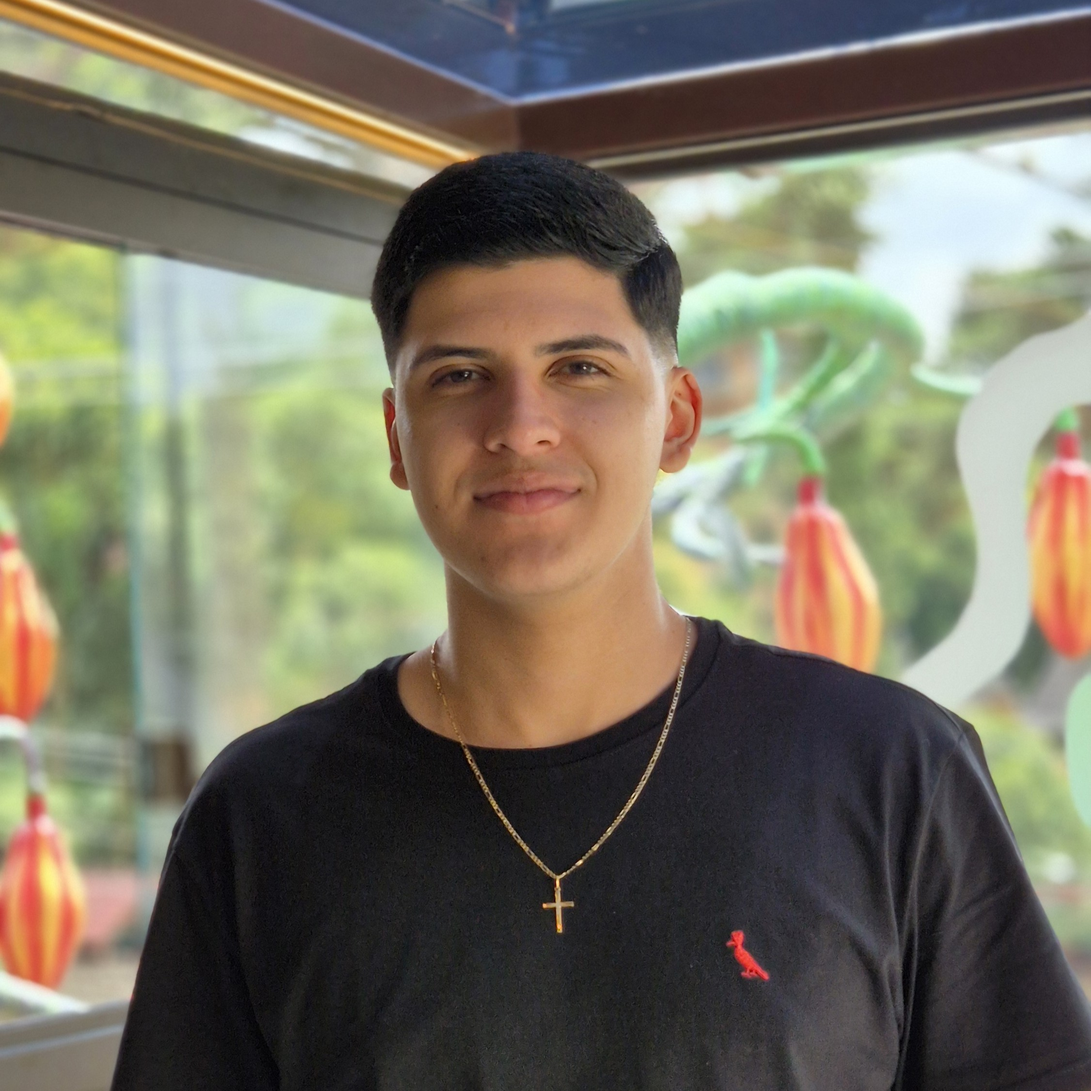
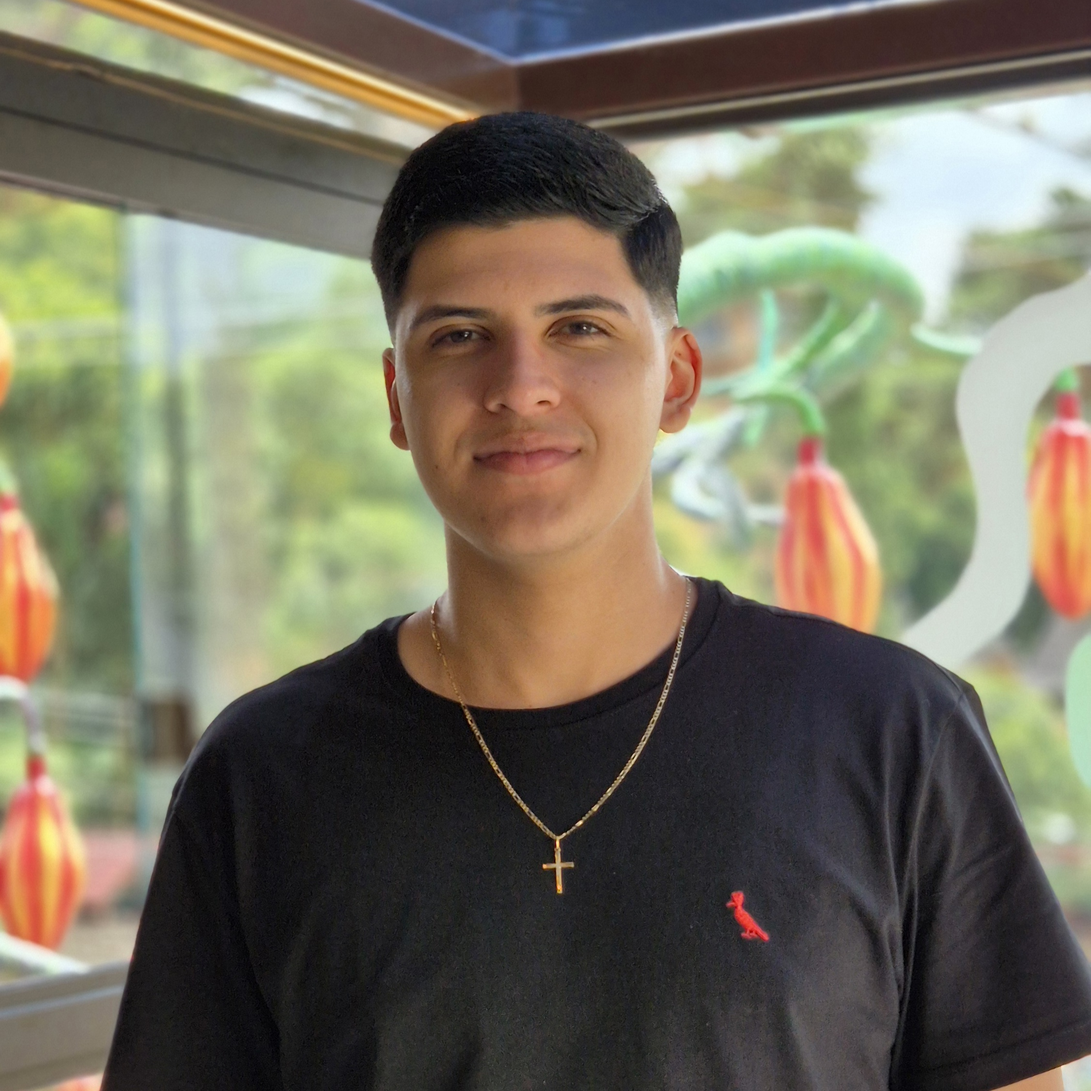
Redes sociais e botão para download cv

diff --git a/portifolio/src/app/_components/Inicio.tsx b/portifolio/src/app/_components/Inicio.tsx
@@ -1,27 +1,49 @@
 import Image from 'next/image';
 import { useTranslations } from 'next-intl';
 import { bebasNeue } from '../[locale]/fonts';
+import { Button } from '@/components/ui/button';
+import { Download } from 'lucide-react';
+import { FaLinkedinIn, FaGithub } from "react-icons/fa";
+import { BotaoRedeSocial } from './BotaoRedeSocial';
+import { GITHUB_URL, LINKEDIN_URL } from '@/lib/constants';
 
 export default function Inicio() {
     const t = useTranslations('SobreMim');
     return (
-        <div className="flex flex-col md:flex-row w-full items-center justify-between px-6 md:px-24 py-10 gap-8">
+        <div className="flex flex-col md:flex-row w-full items-center justify-between px-10 md:px-24 py-10 gap-10">
             
             {/* Imagem primeiro no mobile */}
             <div className="w-full md:w-1/2 flex justify-center items-center order-1 md:order-2">
                 <Image 
                     src="/Eu.jpg"
                     alt="Minha foto de perfil"
-                    width={600}
-                    height={700}
+                    width={562}
+                    height={562}
                     className="rounded-3xl"
                 />
             </div>
 
             {/* Texto depois no mobile */}
-            <div className="text-wrap w-full md:w-1/2 text-center md:text-left order-2 md:order-1">
-                <h1 className={`text-4xl md:text-6xl mb-6 ${bebasNeue.className}`}>{t("apresentacao")}</h1>
-                <p className="break-words max-w-full text-[var(--cinza-claro)]">{t("descricao")}</p>
+            <div className="flex flex-col gap-10 text-wrap w-full md:w-1/2 text-center md:text-left order-2 md:order-1">
+                <div>
+                    <h1 className={`text-4xl md:text-6xl mb-6 ${bebasNeue.className}`}>{t("apresentacao")}</h1>
+                    <p className="break-words max-w-full text-[var(--cinza-claro)]">{t("descricao")}</p>
+                </div>
+                
+                <div className="flex gap-3 items-center">
+                    <Button className="bg-[var(--primaria)] text-black rounded-full flex items-center gap-2 hover:bg-[var(--primaria-hover)] w-44 cursor-pointer">
+                        DOWNLOAD CV
+                        <Download />
+                    </Button>
+
+                    <BotaoRedeSocial link={LINKEDIN_URL} rotulo="Linkedin">
+                        <FaLinkedinIn size={20}/>
+                    </BotaoRedeSocial>
+
+                    <BotaoRedeSocial link={GITHUB_URL} rotulo="GitHub">
+                        <FaGithub size={20}/>
+                    </BotaoRedeSocial>
+                </div>
             </div>
         </div>
     );

diff --git a/portifolio/src/app/[locale]/layout.tsx b/portifolio/src/app/[locale]/layout.tsx
@@ -3,6 +3,7 @@ import { Geist, Geist_Mono, Bebas_Neue } from "next/font/google";
 import { NextIntlClientProvider, hasLocale } from 'next-intl';
 import { notFound } from 'next/navigation';
 import { routing } from '@/i18n/routing';
+import { inter } from "./fonts";
 import "./globals.css";
 
 const geistSans = Geist({
@@ -35,7 +36,7 @@ export default async function RootLayout({
   return (
     <html lang={locale}>
       <body
-        className={`${geistSans.variable} ${geistMono.variable} antialiased`}
+        className={`${inter.className} antialiased`}
       >
         <NextIntlClientProvider>
           {children}

diff --git a/portifolio/src/app/_components/BotaoRedeSocial.tsx b/portifolio/src/app/_components/BotaoRedeSocial.tsx
@@ -1,0 +1,21 @@
+import { ReactNode } from "react";
+
+interface BotaoRedeSocialProps {
+  link: string;
+  children: ReactNode;
+  rotulo?: string;
+}
+
+export function BotaoRedeSocial({ link, children, rotulo }: BotaoRedeSocialProps) {
+  return (
+    <a
+      href={link}
+      target="_blank"
+      rel="noopener noreferrer"
+      aria-label={rotulo}
+      className="w-12 h-12 bg-[var(--cinza-escuro)] text-[var(--primaria)] rounded-full flex items-center justify-center hover:bg-[var(--cinza-escuro-hover)] transition-colors"
+    >
+      {children}
+    </a>
+  );
+}

diff --git a/portifolio/src/app/[locale]/fonts.ts b/portifolio/src/app/[locale]/fonts.ts
@@ -1,7 +1,13 @@
-import { Bebas_Neue } from "next/font/google";
+import { Bebas_Neue, Inter } from "next/font/google";
 
 export const bebasNeue = Bebas_Neue({
   subsets: ["latin"],
   weight: ["400"],
   variable: "--font-bebas"
+});
+
+export const inter = Inter({
+  subsets: ["latin"],
+  weight: ["400"],
+  variable: "--font-inter"
 });

diff --git a/portifolio/src/app/[locale]/globals.css b/portifolio/src/app/[locale]/globals.css
@@ -112,7 +112,11 @@
   --sidebar-accent-foreground: oklch(0.985 0 0);
   --sidebar-border: oklch(1 0 0 / 10%);
   --sidebar-ring: oklch(0.556 0 0);
+  --primaria: #D3E97A;
+  --primaria-hover: #C2D85F;
   --cinza-claro: #c7c7c7;
+  --cinza-escuro: #222222;
+  --cinza-escuro-hover: #333333;
 }
 
 .dark {

diff --git a/portifolio/src/lib/constants.ts b/portifolio/src/lib/constants.ts
@@ -1,2 +1,4 @@
 export const AUTOR: string = "Ítalo Vitorino"
 export const LINGUAGENS = ["en-US", "pt-BR"]
+export const GITHUB_URL = "https://github.com/italovitorino"
+export const LINKEDIN_URL = "https://www.linkedin.com/in/italo-vitorinobs/"
